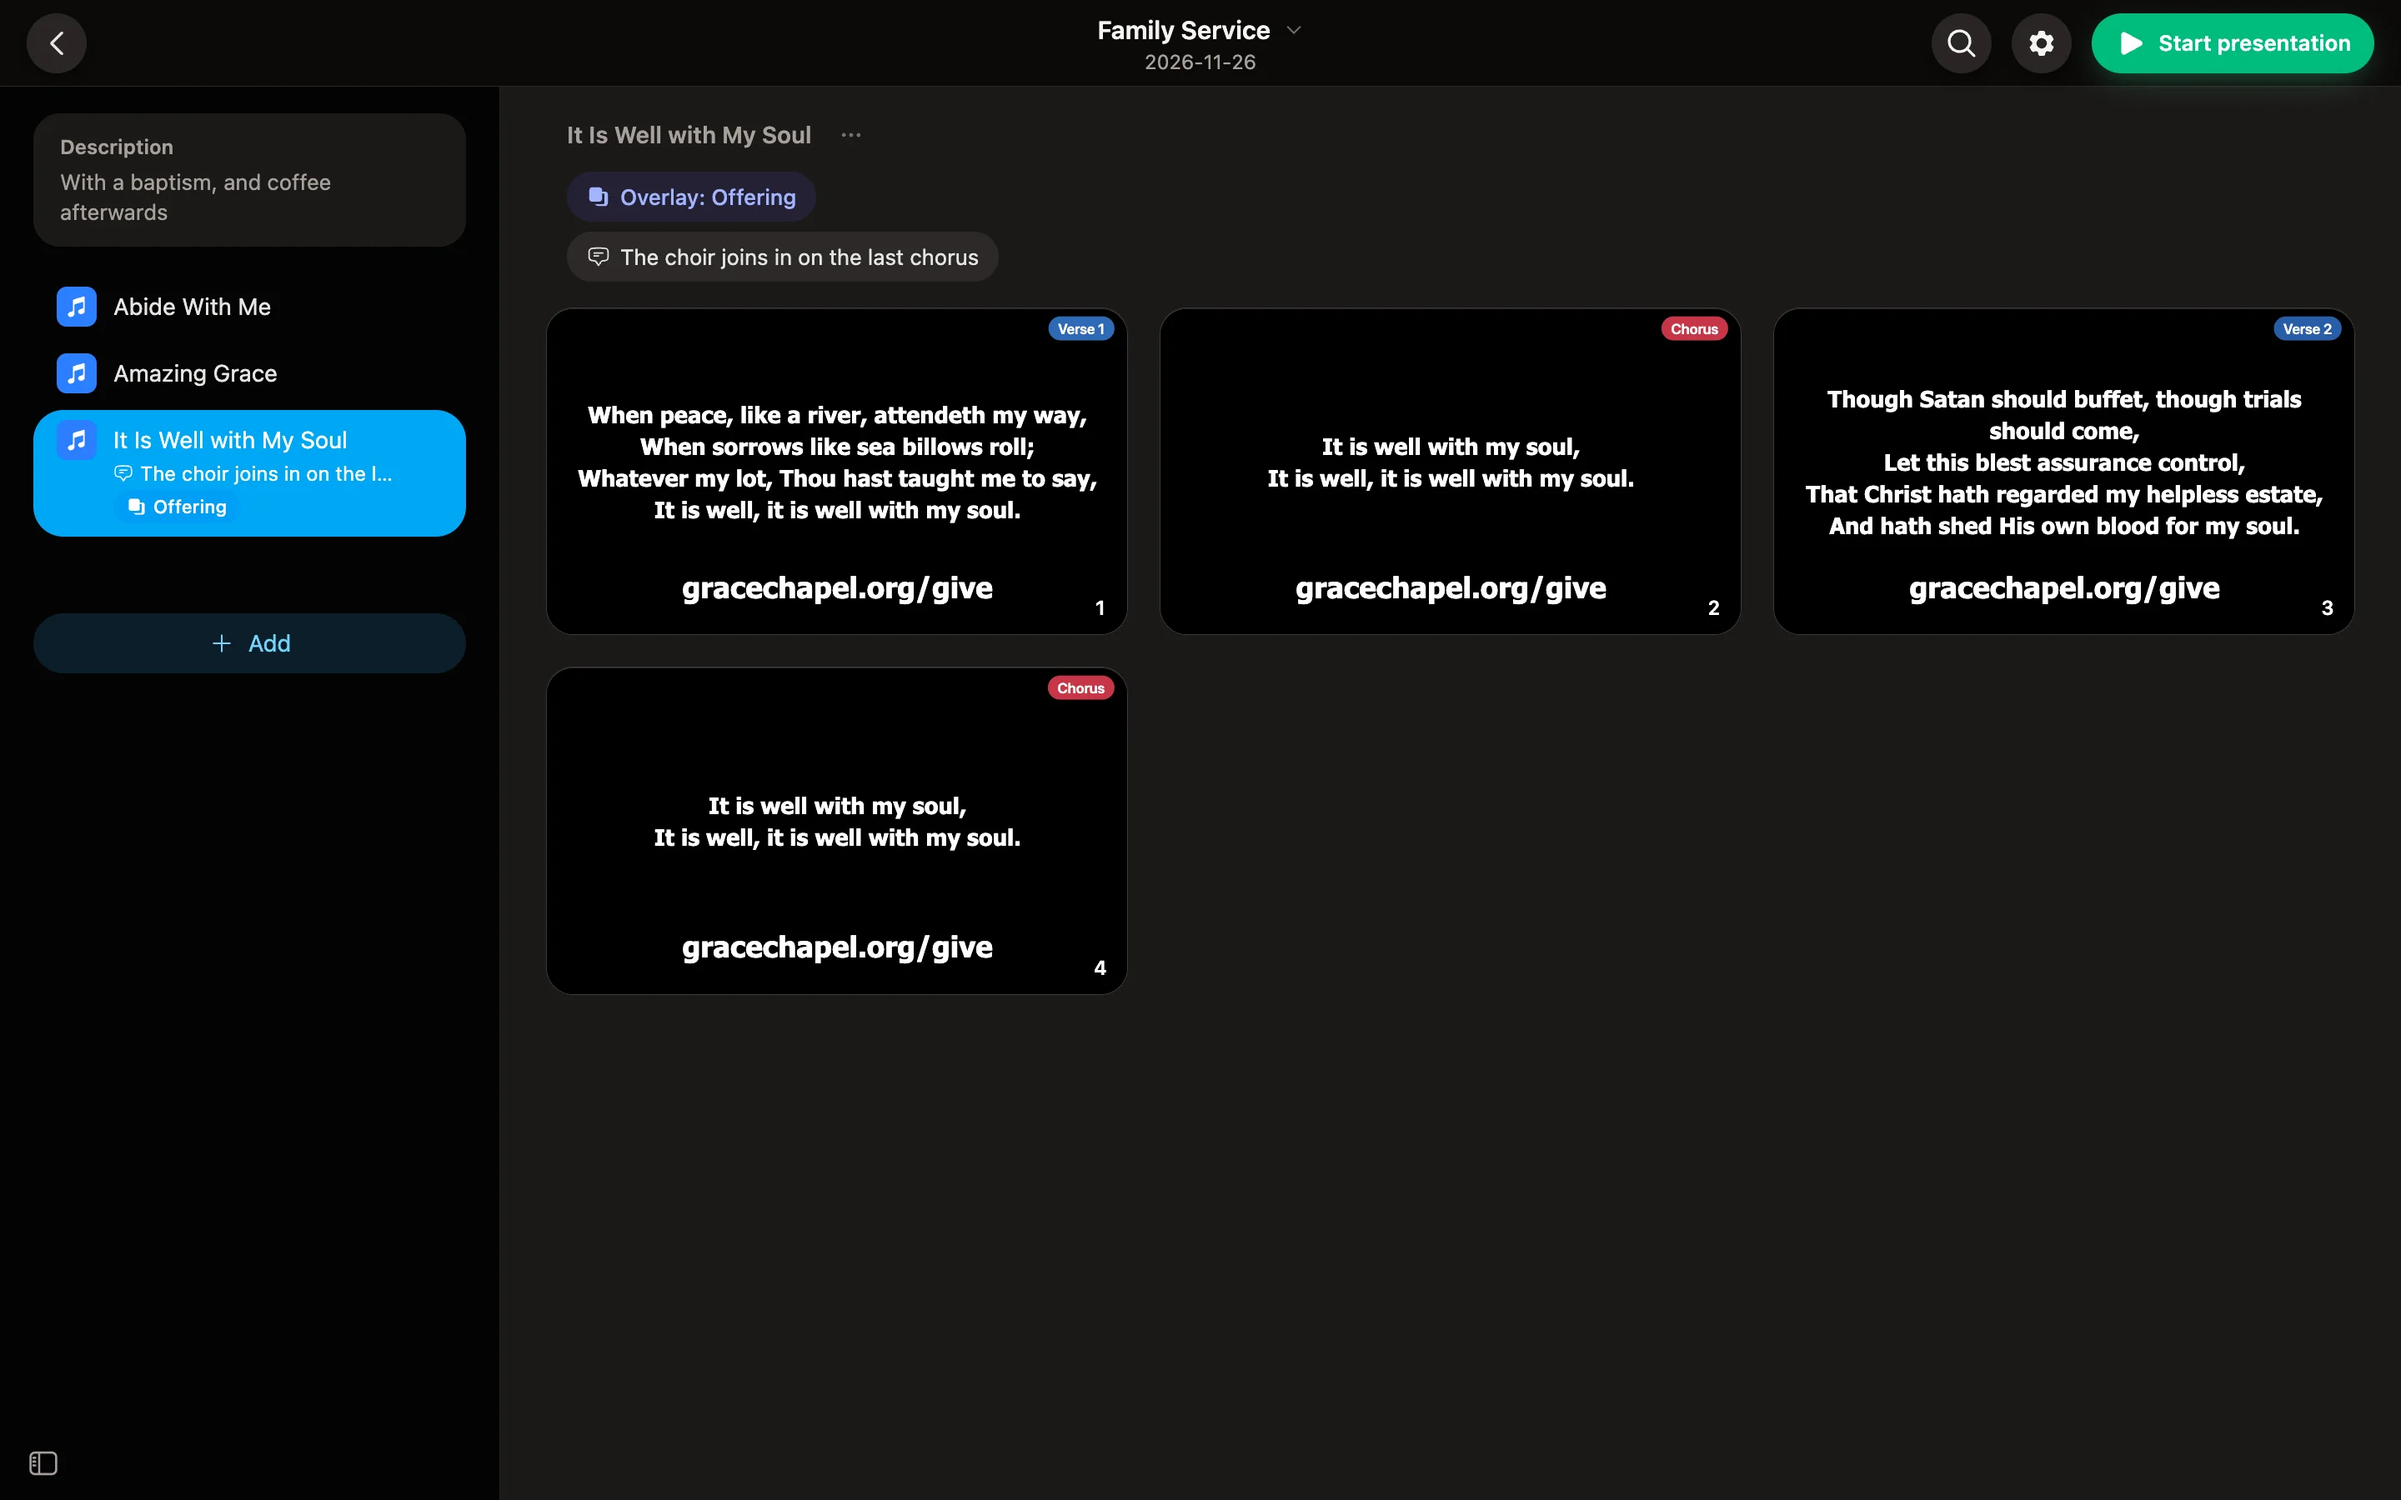
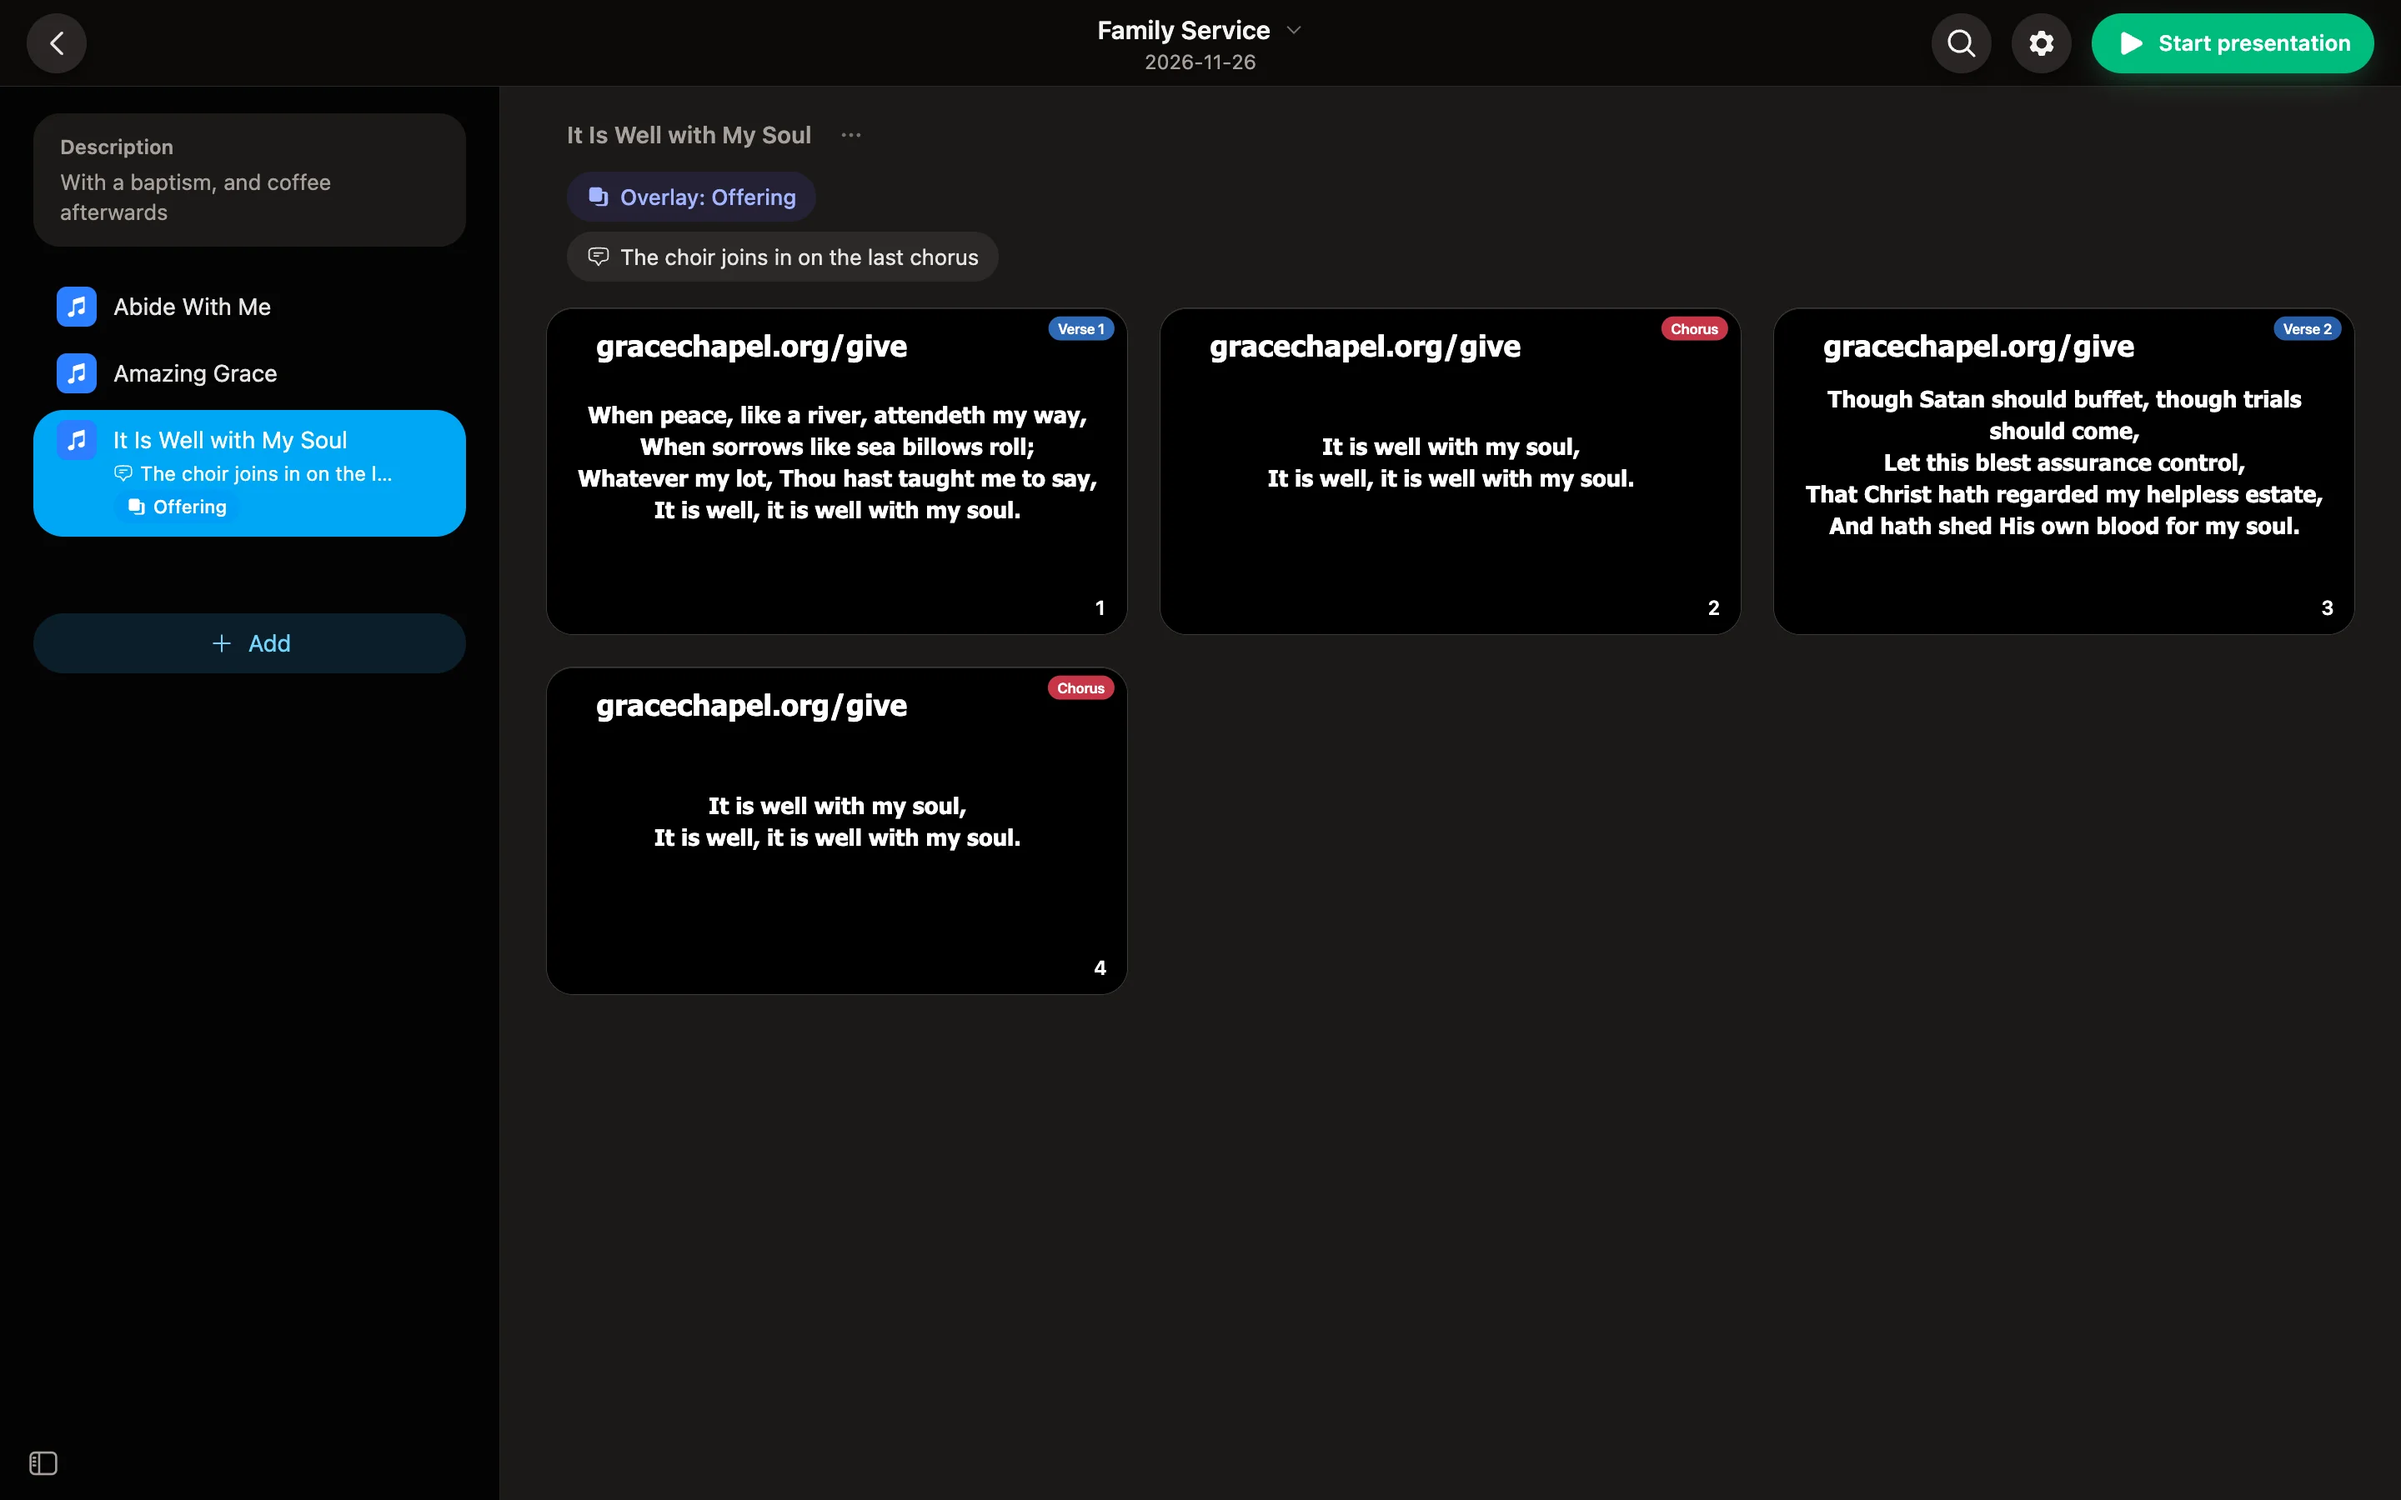
The website shows Fjärrstyrning, switched on with its QR code, and the overlay at the top left of the slide, clear of the song's lines

diff --git a/apps/desktop/e2e/website.spec.ts b/apps/desktop/e2e/website.spec.ts
@@ -1,4 +1,4 @@
-// The pictures on gospelpresenter.com (docs/, its carousel in docs/src/carousel.js): seven views of the app, in
+// The pictures on gospelpresenter.com (website/, its carousel in website/src/carousel.js): eight views of the app, in
 // Swedish and English, light and dark, desktop (1440×900) and phone (390×844), at twice the pixels, as WebP
 // named `<view>_<lang>_<theme>_<viewport>.webp`. Not a test: it runs only with GP_WEBSITE set to the directory
 // the pictures go to; `pnpm screenshots` writes them over website/src/screenshots.
@@ -227,7 +227,8 @@ for (const lang of ['sv', 'en'] as const) {
         await backToSong(page);
       }
       await createOverlay(page, content.overlay[0], content.overlay[1]);
-      // Its text dragged from the middle, where it is put, to the foot of the slide, under a song's lines.
+      // Its text dragged from the middle, where it is put, to the top left corner, clear of a song's lines (Lars,
+      // 2026-11-26); a part's label is at the top right.
       const canvas = page.getByTestId('slide-canvas');
       const text = canvas.locator('[data-element]').filter({ hasText: content.overlay[1] }).first();
       // Again until it is there: a press while the editor still takes the typed text in selects, and moves nothing.
@@ -235,10 +236,12 @@ for (const lang of ['sv', 'en'] as const) {
         const [from, slide] = [(await text.boundingBox())!, (await canvas.boundingBox())!];
         await page.mouse.move(from.x + from.width / 2, from.y + from.height / 2);
         await page.mouse.down();
-        await page.mouse.move(from.x + from.width / 2, slide.y + slide.height * 0.94 - from.height / 2, { steps: 10 });
+        const [x, y] = [slide.x + slide.width * 0.04 + from.width / 2, slide.y + slide.height * 0.05 + from.height / 2];
+        await page.mouse.move(x, y, { steps: 10 });
         await page.mouse.up();
         const moved = (await text.boundingBox())!;
-        expect(moved.y + moved.height).toBeGreaterThan(slide.y + slide.height * 0.85);
+        expect(moved.x).toBeLessThan(slide.x + slide.width * 0.1);
+        expect(moved.y).toBeLessThan(slide.y + slide.height * 0.1);
       }).toPass({ timeout: 10_000 });
       await expect(page.getByTestId('saved')).toBeVisible();
       await openAdmin(page, 'Biblar');
@@ -374,6 +377,17 @@ for (const lang of ['sv', 'en'] as const) {
         ],
         ['bible', presentation, (p) => openAdd(p, t('add.bible'))],
         ['presentation-live', presentation, goLive],
+        // Still live: Fjärrstyrning switched on, its QR code for whoever is to control from a phone.
+        [
+          'remote',
+          presentation,
+          async (p) => {
+            await p.locator('[data-testid="remote-status"]:visible').first().click();
+            const sheet = p.getByRole('dialog', { name: t('live.remote'), exact: true });
+            await sheet.getByLabel(t('remote.allow')).check();
+            await expect(sheet.getByRole('img', { name: t('remote.qr') })).toBeVisible();
+          },
+        ],
       ];
 
       const cdp = await page.context().newCDPSession(page);
@@ -410,6 +424,10 @@ for (const lang of ['sv', 'en'] as const) {
             await act(page);
             await shoot(page, name);
           }
+          // Fjärrstyrning's sheet, left open by the last picture, closed: it covers the page.
+          const remoteSheet = page.getByRole('dialog', { name: t('live.remote'), exact: true });
+          if (await remoteSheet.isVisible()) await remoteSheet.getByRole('button', { name: t('common.close'), exact: true }).first().click();
+          await expect(remoteSheet).toHaveCount(0);
           // Still live: a phone in the pews that follows the public output. On a phone the outputs are in Visning's sheet.
           if (phone) await page.getByRole('button', { name: t('live.display'), exact: true }).click();
           const toggle = page.getByRole('list', { name: t('live.outputs') }).getByLabel(content.phones);

diff --git a/website/src/carousel.js b/website/src/carousel.js
@@ -7,7 +7,7 @@ const screenshots = import.meta.glob('./screenshots/*.webp', {
 });
 
 // The pictures come from the app itself: `pnpm screenshots` (apps/desktop/e2e/website.spec.ts).
-const PAGES = ['presentation', 'presentation-live', 'watch', 'home', 'songs', 'add-song', 'bible'];
+const PAGES = ['presentation', 'presentation-live', 'remote', 'watch', 'home', 'songs', 'add-song', 'bible'];
 
 const lang = location.pathname.startsWith('/sv') ? 'sv' : 'en';
 
